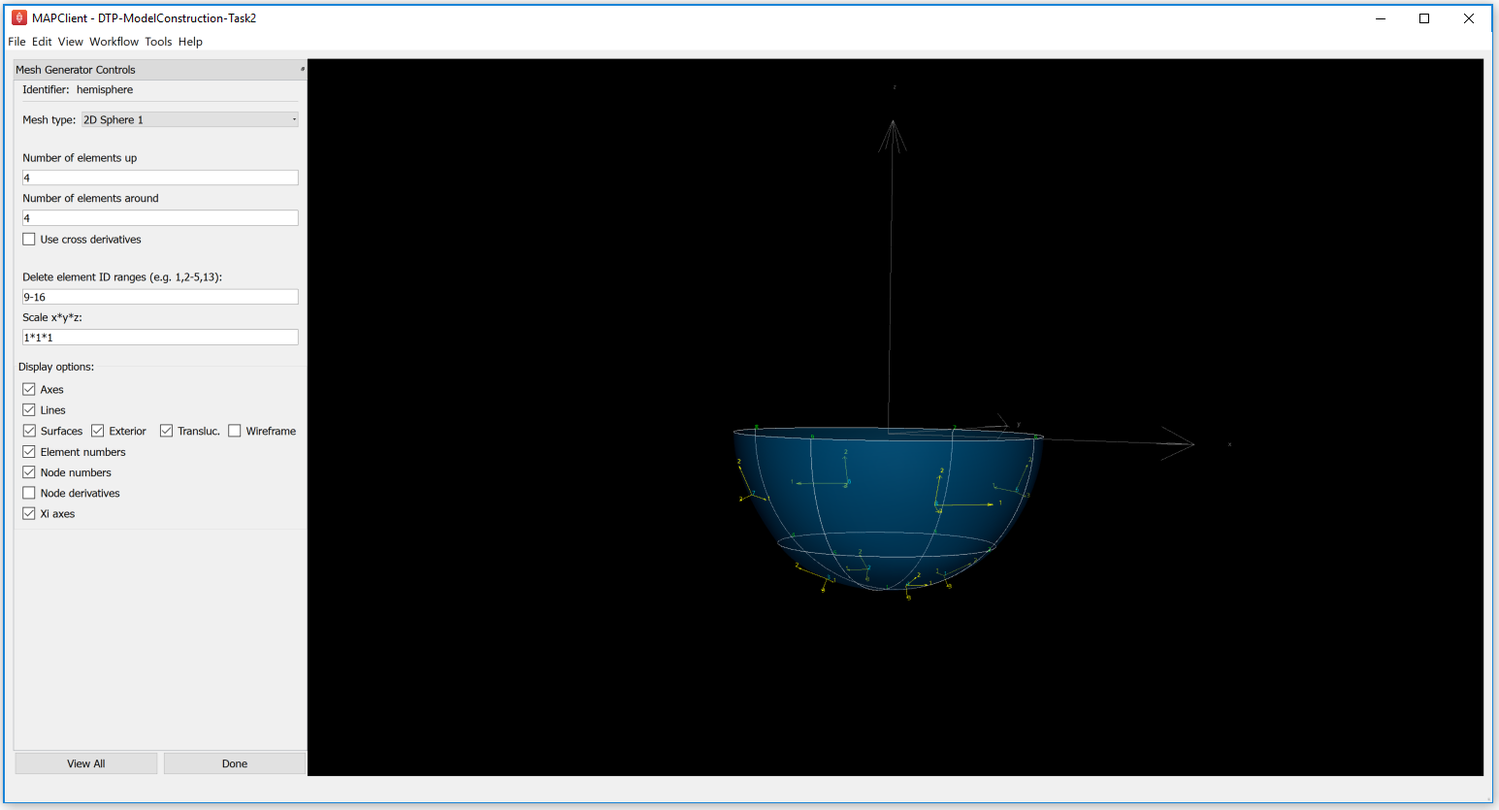
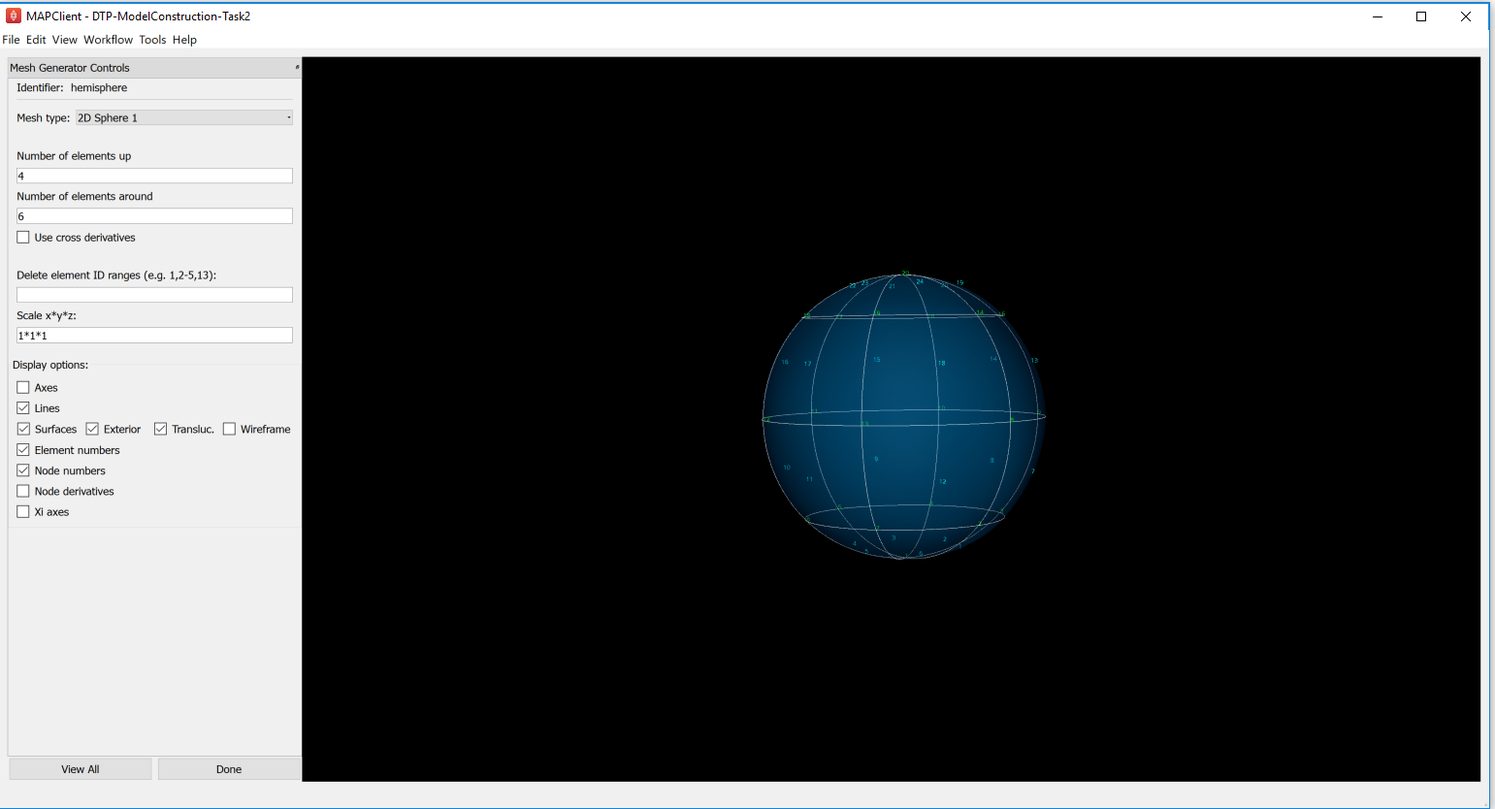
Tweaked Model Construction module

Changed region(s): [[0.0, 0.0624, 0.9968, 1.0], [0.4672, 0.3118, 0.7164, 0.7482], [0.0, 0.0, 0.9968, 0.1559]]

diff --git a/source/modelconstruction.rst b/source/modelconstruction.rst
@@ -8,9 +8,7 @@ Model construction consists of:
 #. **Geometric Fitting**: customising the geometry of the mesh to be physically realistic, or tailored to an individual.
 #. **Material Field Definition**: describing and fitting additional spatially-varying fields which affect behaviour of the body e.g. material properties such as fibre orientations for anisotropic materials. 
 
-This tutorial consists of the following topics:
-
-.. contents::
+.. contents:: Contents:
    :local:
    :depth: 2 
    :backlinks: top   
@@ -35,7 +33,7 @@ Mesh creation is a very involved topic; one needs to consider favourable alignme
 Interactive Graphics Controls
 -----------------------------
 
-The following tasks use interactive 3-D graphics. In any of the graphical workflow steps you may rotate, pan and zoom the view using the standard controls in the following table, click *View All* to recentre the view and click *Done* to complete/close the workflow step (and save the output model for subsequent workflow steps):
+The following tasks use interactive 3-D graphics. In any of the graphical workflow steps you may rotate, pan and zoom the view using the standard controls in the following table, click :guilabel:`&View All` to recentre the view and click :guilabel:`&Done` to complete/close the workflow step (and save the output model for subsequent workflow steps):
 
 ======================= ==============
 Mouse Button            Transformation
@@ -52,7 +50,7 @@ Shift+Right             Camera Zoom
 Task 0: Visualising Model Construction
 --------------------------------------
 
-We will jump ahead to look at an example from the visualisation course as it's very illustrative of the process of building a model out of simple shapes. Open the *DTP-Visualisation-Task1* workflow and execute it. :numref:`fig_dtp_cp_modcon_heart_mesh_construction` shows a time sequence of constructing a heart model from this example which you will be able to view interactively.
+We will jump ahead to look at an example from the visualisation course as it's very illustrative of the process of building a model out of simple shapes. Open the 'DTP-Visualisation-Task1' workflow and execute it. :numref:`fig_dtp_cp_modcon_heart_mesh_construction` shows a time sequence of constructing a heart model from this example which you will be able to view interactively.
 
 .. _fig_dtp_cp_modcon_heart_mesh_construction:
 
@@ -61,14 +59,14 @@ We will jump ahead to look at an example from the visualisation course as it's v
 
    Heart Mesh Construction stages: a single template element; multiple disconnected elements; elements merged into a connected mesh; mesh geometry gradually warped into the shape of the heart, closing up the sides and apex.
 
-This example opens up a SimpleViz viewer for a model that shows stages in constructing a heart model. At the left of the window is a toolbox; switch to the 'Time' tab of the toolbox and drag the time slider between 0 and 1. Rotate, pan and zoom into the view using the mouse controls described above.
+This example opens up a SimpleViz viewer for a model that shows stages in constructing a heart model. At the left of the window is a toolbox; switch to the :guilabel:`Time` tab of the toolbox and drag the time slider between 0 and 1. Rotate, pan and zoom into the view using the mouse controls described above.
 
 In most of the model the initially cube-shaped elements are stretched, compressed or distorted, but they keep their essential cube or hexahedral *topology*. However, at the apex (bottom of the heart) the cubes are collapsed into wedge shapes, which while being permissible is an approach which should be minimised.
 
 Task 1: Procedural Mesh Generation
 ----------------------------------
 
-Open the *DTP-ModelConstruction-Task1* workflow and execute it. You will see the *Mesh Generator* interface as shown in :numref:`fig_dtp_cp_modcon_mesh_generator`:
+Open the 'DTP-ModelConstruction-Task1' workflow and execute it. You will see the *Mesh Generator* interface as shown in :numref:`fig_dtp_cp_modcon_mesh_generator`:
 
 .. _fig_dtp_cp_modcon_mesh_generator:
 
@@ -85,42 +83,48 @@ Special to the elements in these generated mesh are node derivative parameters w
 
 The elements around the apexes of the sphere meshes use *general linear maps* to sum the apex derivatives weighted by cos and sin terms to smoothly close the mesh at these points. This is generally needed wherever neighbouring elements' coordinates are not aligned.
 
-Ranges of elements can be deleted from the generated mesh, but this is best done after choosing the numbers of elements options for each mesh type. **Note** that parts of spheres can be deleted to make e.g. bottom or top hemispheres.
+Ranges of elements can be deleted from the generated mesh, but this is best done after choosing the numbers of elements options for each mesh type. *Note that parts of spheres can be deleted to make e.g. bottom or top hemispheres*.
 
 All the current mesh types make a unit sized mesh by default, but the scale option allows this to be scaled differently in x, y and z.
 
 Task 2: Mesh Generation and Merging
 -----------------------------------
 
-Open the *DTP-ModelConstruction-Task2* workflow and execute it. A *Mesh Generator* interface is displayed with 'Identifier: hemisphere' and other fields to input all the required values. Mention the element ID range to delete and get the bottom hemisphere as shown below:
+Open the 'DTP-ModelConstruction-Task2' workflow and execute it. A mesh generator interface is displayed with a 'Hemisphere'. Select the :guilabel:`Mesh type` as '2D Sphere 1' from the combo box and input the values for :guilabel:`Number of elements up` (e.g. input number 4) and the :guilabel:`Number of elements around` (e.g. input number 6). The mesh generator interface will be as displayed below:
 
 .. figure:: _static/mesh-generator_part1.png
    :align: center
-
+   
    Mesh Generator Part 1: Hemisphere
-
-Click on *Done*. On the new mesh generator interface, the 'identifier: tube' with other required input fields are displayed as below:
-
+   
+To get the bottom hemisphere, find the element numbers to be deleted and enter that range in the :guilabel:`Delete element ID ranges` textfield (for this example, the range will be 13-24). The interface will be as shown below after deleting the required element ID range:
 
 .. figure:: _static/mesh-generator_part2.png
    :align: center
 
-   Mesh Generator Part 2: Tube
+   Mesh Generator Part 2: Bottom Hemisphere
 
-After the mesh generation of the hemisphere and the tube, clicking on *Done* takes you to the 'Mesh Merger' stage. Observe the 'Identifier: hemisphere-tube' with merged *master=slave* nodes as shown here:
+Click on :guilabel:`&Done`. The next interface is another mesh generator with the 'Tube' element as displayed below:
+
+.. figure:: _static/mesh-generator_part3.png
+   :align: center
+
+   Mesh Generator Part 3: Tube
+
+After the mesh generation of the hemisphere and the tube, clicking on :guilabel:`&Done` takes you to the 'Mesh Merger' stage. Observe the 'hemisphere-tube' identifier with merged master and slave nodes(for the ongoing example: map nodes 8=1, 9=2, 10=3 and so on) as shown here:
 
 .. _fig_dtp_cp_modcon_mesh_merger:
 
-.. figure:: _static/mesh-merger-new.png
+.. figure:: _static/mesh-merger.png
    :align: center
 
    Mesh Merger Interface, after merging master-slave nodes
 
 The first/top input to the Mesh Merger workflow step is the *master* mesh, which appears on the left of the interface, while the second/bottom input is the *slave* mesh, shown on the right. Merging is performed by matching (equating) node numbers from the master mesh with the ones in the slave. The master mesh is so named because it is unmodified by the merge: matched nodes on the slave are replaced by the equivalent master nodes, and the remaining slave nodes are transformed to fit the master, and they with the slave elements are added to the master mesh in the left panel, which is output by the workflow step.
 
-This tool has recently been enhanced to allow master and slave nodes to be interactively selected in the 3-D view, by holding down the 'S' key and clicking on node numbers or node derivatives - one of these must be visible. The slave mesh is now automatically aligned with the master mesh, and there is the option to perform a fit to smooth it out to reduce distortion where the two meshes joined (but beware: it can be slow). Another new feature is that the list of master=slave pairings can be edited, however the changes don't take effect until the 'Apply' button is pressed.
+This tool has recently been enhanced to allow master and slave nodes to be interactively selected in the 3-D view, by holding down the 'S' key and clicking on node numbers or node derivatives - one of these must be visible. The slave mesh is now automatically aligned with the master mesh, and there is the option to perform a fit to smooth it out to reduce distortion where the two meshes joined (but beware: it can be slow). Another new feature is that the list of master=slave pairings can be edited, however the changes don't take effect until the :guilabel:`&Apply` button is pressed.
 
-Feel free to change the matching nodes (which can be deleted by entering the number and pressing the 'Delete' push button, or edited by equating with a different slave node number). No harm is done if nonsense is entered!
+Feel free to change the matching nodes (which can be deleted by entering the number and pressing the :guilabel:`&Delete` push button, or edited by equating with a different slave node number). No harm is done if nonsense is entered!
 
 
 Geometric Fitting
@@ -156,25 +160,25 @@ When the *DTP-Smoothfit-Tutorial* workflow is executed, the smoothfit interface 
 
    Interface for aligning the model with the data point cloud.
 
-Smoothfit uses the interactive view controls defined earlier, including *View All* to recentre the view and click *Done* to close the workflow step and save the output model for subsequent workflow steps.
+Smoothfit uses the interactive view controls defined earlier, including :guilabel:`&View All` to recentre the view and click :guilabel:`&Done` to close the workflow step and save the output model for subsequent workflow steps.
 
 In the Smoothfit user interface you can hover the mouse pointer over most controls to get help -- tool tips -- which explain what they do. 
 
-**Pre-fit: model alignment**
+**Pre-fit: Model Alignment**
 
-The first step in fitting is to scale the model and bring it into alignment with the data point cloud prior to projecting data points and fitting. The need to align the model well is explained later with the projection step. To perform alignment you must be on the Align page in the tool bar, switched to by clicking on the *Align* label.
+The first step in fitting is to scale the model and bring it into alignment with the data point cloud prior to projecting data points and fitting. The need to align the model well is explained later with the projection step. To perform alignment you must be on the :guilabel:`Align` page in the toolbar, switched to by clicking on the :guilabel:`Align` label.
 
-To align and scale the model, hold down the 'A' key as you left, middle and right mouse button drag in the window (or variant as in the above table): this moves the model relative to the data cloud. Be aware that rotation is a little difficult and may take practice. Other controls include alignment reset, auto centre (in case the model is very far from the data points; may need to click *View All* afterwards) and the Load button which will load a saved alignment. (Note that the Save button is disabled in the smoothfit configuration for these tutorials so a pre-saved good alignment is always available for loading.)
+To align and scale the model, hold down the 'A' key as you left, middle and right mouse button drag in the window (or variant as in the above table): this moves the model relative to the data cloud. Be aware that rotation is a little difficult and may take practice. Other controls include alignment reset, auto centre (in case the model is very far from the data points; may need to click :guilabel:`&View All` afterwards) and the :guilabel:`&Load Settings` button which will load a saved alignment. (Note that the Save button is disabled in the smoothfit configuration for these tutorials so a pre-saved good alignment is always available for loading.)
 
 Often the shape of the model and point cloud make it pretty clear where to align to. Smoothfit uses manual alignment, but other tools may make it automatic (based on shape analysis) or semi-automatic (e.g. by identifying 3 or more points on the data cloud as being key points on the model, and automatically transforming to align with them).
 
-**Fit stage 1: projecting points**
+**Fit stage 1: Projecting Points**
 
-Once the model and data points are aligned, switch to the fitting page in the tool bar by clicking on the *Fit* label. These controls show that fitting has three stages: projecting points onto the mesh, filtering bad data, and performing the fit with some user parameters.
+Once the model and data points are aligned, switch to the fitting page in the toolbar by clicking on the :guilabel:`Fit` label. These controls show that fitting has three stages: projecting points onto the mesh, filtering bad data, and performing the fit with some user parameters.
 
 Fitting is usually a non-linear task: after initial fits, possibly with multiple iterations, you may need to go back and re-project data points, filter data and re-fit, possibly with different parameters. The trial-and-error nature of fitting, together with the need for judgement on whether a good fit is achieved,  make it less a science and more of a dark art!
 
-The first step in fitting is to project the data points onto the nearest locations on the elements of the aligned model, by clicking on the *Project Points* button. In the window you will see projection lines from the data points to the nearest point on the model as shown in :numref:`fig_dtp_cp_modcon_fitting_project`. These projection lines, interpreted as fitting errors, are coloured by length (blue closest, red furthest away), and there is an on-screen display of the current mean and maximum projection error.
+The first step in fitting is to project the data points onto the nearest locations on the elements of the aligned model, by clicking on the :guilabel:`&Project Points` button. In the window you will see projection lines from the data points to the nearest point on the model as shown in :numref:`fig_dtp_cp_modcon_fitting_project`. These projection lines, interpreted as fitting errors, are coloured by length (blue closest, red furthest away), and there is an on-screen display of the current mean and maximum projection error.
 
 .. _fig_dtp_cp_modcon_fitting_project:
 
@@ -190,11 +194,11 @@ The key point is that the projections are what the fitting aims to minimise, and
 
 In the worst cases, projecting distant data points onto a very wavy model, will produce data which is unusable for fitting.
 
-Note that clicking on the *Reset* button clears all current projections, and restores all points that have been filtered out for subsequent projection.
+Note that clicking on the :guilabel:`&Reset` button clears all current projections, and restores all points that have been filtered out for subsequent projection.
 
-**Fit stage 2: filtering data**
+**Fit stage 2: Filtering Data**
 
-We often find that some of the data points are not providing useful data for the fit, and we will want to filter these out. The *Filter data* controls shown in  :numref:`fig_dtp_cp_modcon_fitting_project` allow us to remove data points according to two algorithms.
+We often find that some of the data points are not providing useful data for the fit, and we will want to filter these out. The :guilabel:`Filter data` controls shown in  :numref:`fig_dtp_cp_modcon_fitting_project` allow us to remove data points according to two algorithms.
 
 The first simply removes the data points whose projections are in the specified top proportion of the maximum error, 0.9 (90%) by default. This is mainly used where the data cloud is *noisy* or contains some rogue data points which are best taken out of the solution.
 
@@ -202,11 +206,11 @@ The second filtering tool removes data points whose projections are not normal t
 
 When fitting a surface model to only a subset of the data points, you will need to use the non-normal filter (and sometimes the top error filter) to eliminate the data points clearly outside of the surface to be fit.
 
-Filtering the data points removes those points from the active set of data points, which gets smaller each time but may be reset to all data points using the *Reset* button.
+Filtering the data points removes those points from the active set of data points, which gets smaller each time but may be reset to all data points using the :guilabel:`&Reset` button.
 
-**Fit stage 3: performing the fit**
+**Fit stage 3: Performing the fit**
 
-With data points projected, and bad data filtered out you are ready to fit by clicking on the *Perform Fit* button, however we will usually need to play around with parameters controlling the fit to achieve a good result. :numref:`fig_dtp_cp_modcon_fitting_fit` shows what the view looks like after 2 iterations of fitting with a moderate strain penalty to keep the solution smooth.
+With data points projected, and bad data filtered out you are ready to fit by clicking on the :guilabel:`&Perform Fit` button, however we will usually need to play around with parameters controlling the fit to achieve a good result. :numref:`fig_dtp_cp_modcon_fitting_fit` shows what the view looks like after 2 iterations of fitting with a moderate strain penalty to keep the solution smooth.
 
 .. _fig_dtp_cp_modcon_fitting_fit:
 
@@ -215,11 +219,11 @@ With data points projected, and bad data filtered out you are ready to fit by cl
 
    Display after gross fitting the breast model.
 
-Fitting may be non-linear so multiple iterations may be needed to converge on a solution. Through the interface one can either re-click on *Perform Fit* or increase the maximum number of iterations before fitting; note fitting stops either when the solution has converged or the maximum iterations is reached. If the intention is to re-project points later, it is purely up to the user how many iterations to perform before doing this; for typical problems where one wishes to *gross fit* first, it's best to ensure enough iterations have been performed to get the solution close enough for re-projection.
+Fitting may be non-linear so multiple iterations may be needed to converge on a solution. Through the interface one can either re-click on :guilabel:`&Perform Fit` button or increase the maximum number of iterations before fitting; **Note**: *fitting stops either when the solution has converged or the maximum iterations is reached*. If the intention is to re-project points later, it is purely up to the user how many iterations to perform before doing this; for typical problems where one wishes to *gross fit* first, it's best to ensure enough iterations have been performed to get the solution close enough for re-projection.
 
-Beware that projections are not recalculated during the fitting: you must manually click on *Project Points* to do this, and you will probably want to filter some more points before re-fitting.
+Beware that projections are not recalculated during the fitting: you must manually click on :guilabel:`&Project Points` to do this, and you will probably want to filter some more points before re-fitting.
 
-Switching back to the *Align* page clears the fitted solution altogether.
+Switching back to the :guilabel:`Align` page clears the fitted solution altogether.
 
 The penalty values allow you to smooth the fit by penalising particular deformations. The strain penalty limits excessive strain in the model so where there is absent or noisy data, solutions which minimise the deformation from the initial aligned state are favoured. The edge discontinuity penalty is only useful for non-C\ :sub:`1`\ -continuous coordinate fields such as the final linear mesh example. Penalties always increase the data point projection error (in a least squares sense, which is the solution method used in the fitting), but generally give a much more attractive result. Penalty values should be adjusted in orders of magnitude until a likeable result is obtained, then fine-tuned. It is often better to use stiffer (higher penalty) values for initial iterations (gross fitting) to prevent waviness from developing in the mesh, then re-projecting and reducing penalties for a final iteration (fine fitting). As for the alignment settings, you can load and save (if enabled) the fitting options.
 
@@ -232,19 +236,19 @@ The following tutorial tasks each have a workflow associated with them which sho
 Task 3: Coarse plate model fitted to breast data
 ------------------------------------------------
 
-Open the *DTP-ModelConstruction-Task3* workflow and execute it. The breast data was obtained in 'prone' pose (hanging down) as done in MRI scans; this is also the simplest pose to digitise and fit to. Try manually aligning the surface with the breast data using the mouse controls described earlier (hold down 'A' key and the left, middle or right mouse button and drag to rotate, pan or scale the model). Project points and attempt to fit without any smoothing parameters. It takes several seconds to perform the fit: be patient! Try multiple fit iterations until the solution is stable. Re-project and try again.
+Open the 'DTP-ModelConstruction-Task3' workflow and execute it. The breast data was obtained in 'prone' pose (hanging down) as done in MRI scans; this is also the simplest pose to digitise and fit to. Try manually aligning the surface with the breast data using the mouse controls described earlier (hold down 'A' key and the left, middle or right mouse button and drag to rotate, pan or scale the model). Project points and attempt to fit without any smoothing parameters. It takes several seconds to perform the fit: be patient! Try multiple fit iterations until the solution is stable. Re-project and try again.
 
 The result without smoothing even for this example with a coarse mesh and a relatively large number of high quality data points is quite wavy, particularly around the edges. It also has some unusual depressions about the front of the breasts which is not really representative of the data cloud in general.
 
 For a second exercise we'll use a set sequence to obtain a good fit:
 
-1. Switch to the Align page to reset the fit, click on 'Load' to load a good alignment. 
+1. Switch to the :guilabel:`Align` page to reset the fit, click on :guilabel:`&Load Settings` button to load a good alignment. 
 
-2. Switch to the Fit page, project points and click on 'Remove non-normal'.
+2. Switch to the :guilabel:`Fit` page, project points and click on :guilabel:`&Remove non-normal` button.
 
-3. Click 'Load' to load a moderate strain penalty of 0.001 and perform the fit 2 times to get fairly close to the data points.
+3. Click :guilabel:`&Load Settings` to load a moderate strain penalty of 0.001 and perform the fit 2 times to get fairly close to the data points.
 
-4. Re-project the data points and click on 'Remove non-normal'. (This is the state shown in :numref:`fig_dtp_cp_modcon_fitting_fit`.)
+4. Re-project the data points and click on :guilabel:`&Remove non-normal`. (This is the state shown in :numref:`fig_dtp_cp_modcon_fitting_fit`.)
 
 5. Lower the strain penalty to 0.0001 and fit once more. The error bars almost disappear over most of both breasts.
 
@@ -252,14 +256,14 @@ For a second exercise we'll use a set sequence to obtain a good fit:
 
 While the fit appears to be reasonable over most of the breast area, zoom in close on the tips of the breasts and you will see that the fit is not quite so good there. This is due to the mesh having too few elements to fit the data. The next task uses a slightly denser mesh which can achieve a closer fit, however you will need to wait longer for it to solve.
 
-As an extra exercise switch to the Align page to reset the fit, re-project points and fit with a much higher strain penalty (e.g. 0.01) to see how it limits the possible deformation (after several iterations): this is what is considered a 'stiff' model.
+As an extra exercise switch to the :guilabel:`Align` page to reset the fit, re-project points and fit with a much higher strain penalty (e.g. 0.01) to see how it limits the possible deformation (after several iterations): this is what is considered a 'stiff' model.
 
 Also try fitting with very poor initial alignment to see what happens.
 
 Task 4: Fine plate model fitted to breast data
 ----------------------------------------------
 
-Open the *DTP-ModelConstruction-Task4* workflow and execute it. It has the same data point cloud as the first task, but has a mesh with more than twice as many elements and approximately twice as many parameters, so it is more able to attain a close fit with the data, but takes longer to solve.
+Open the 'DTP-ModelConstruction-Task4' workflow and execute it. It has the same data point cloud as the first task, but has a mesh with more than twice as many elements and approximately twice as many parameters, so it is more able to attain a close fit with the data, but takes longer to solve.
 
 Try some of the exercises from Task 1 with this model. With more elements the model is more susceptible to wavy solutions so applying appropriate smoothing penalties is more critical. 
 
@@ -268,7 +272,7 @@ When performing the second exercise from Task 1, iterate 3 times with the initia
 Task 5: Fine plate model fitted to noisy data
 ---------------------------------------------
 
-Open the *DTP-ModelConstruction-Task5* workflow and execute it. This example uses the same fine plate model (make sure it has 8x5 elements with cross derivatives ticked), however random offsets up to +/- 5mm have been added to all data points. With a large enough number of data points the effect of randomness is diminished however in small areas the randomness can introduce waviness to the solution, so smoothing penalties must be applied.
+Open the 'DTP-ModelConstruction-Task5' workflow and execute it. This example uses the same fine plate model (make sure it has 8x5 elements with cross derivatives ticked), however random offsets up to +/- 5mm have been added to all data points. With a large enough number of data points the effect of randomness is diminished however in small areas the randomness can introduce waviness to the solution, so smoothing penalties must be applied.
 
 Try fitting the model without any strain penalty, and fit with several iterations to see the waviness. Reset the fit and try with the regime from task 1: 2 iters at strain penalty 0.001, re-project, 1 iter at strain penalty 0.0001. The overall result is a good fit but there is unattractive waviness on the chest area. If a curvature penalty were available, these issues with noisy data could be better controlled. You may try turning off cross derivatives in the mesh generator; this should slightly help with waviness, and will make solution faster since it reduces the number of degrees of freedom in the problem.
 
@@ -278,9 +282,9 @@ Because of the random noise the mean error will never get very low, but the aver
 Task 6: Bilinear model fitted to point cloud
 --------------------------------------------
 
-Open the *DTP-ModelConstruction-Task6* workflow and execute it. This example has a bilinear mesh and needs no alignment with the data point cloud.
+Open the 'DTP-ModelConstruction-Task6' workflow and execute it. This example has a bilinear mesh and needs no alignment with the data point cloud.
 
-Project points and fit with all smoothing penalties set to zero. Rotate the result to see that it has developed a 'ridge' along one side, and the under-constrained corner elements distort unacceptably. Reset the fit (switch to Align and back to Fit pages), reproject and fit with the 'edge discontinuity penalty' set to 1. The result is much smoother. This penalty discourages solutions with differences in surface normals across edges of the mesh. Since the mesh uses bilinear interpolation, exact satisfaction of this condition cannot be met, nevertheless it minimises it as much as possible, and in particular it evens out this discontinuity since it is minimised in a 'least squares' sense.
+Project points and fit with all smoothing penalties set to zero. Rotate the result to see that it has developed a 'ridge' along one side, and the under-constrained corner elements distort unacceptably. Reset the fit (switch to :guilabel:`Align` and back to :guilabel:`Fit` pages), reproject and fit with the :guilabel:`Edge Discontinuity Penalty' set to 1. The result is much smoother. This penalty discourages solutions with differences in surface normals across edges of the mesh. Since the mesh uses bilinear interpolation, exact satisfaction of this condition cannot be met, nevertheless it minimises it as much as possible, and in particular it evens out this discontinuity since it is minimised in a 'least squares' sense.
 
 Experiment with a much higher edge discontinuity penalty (e.g. 10 or even 100) and lower (e.g. 0.1) to see how the fit is affected. Try combining with strain penalty values.
 
